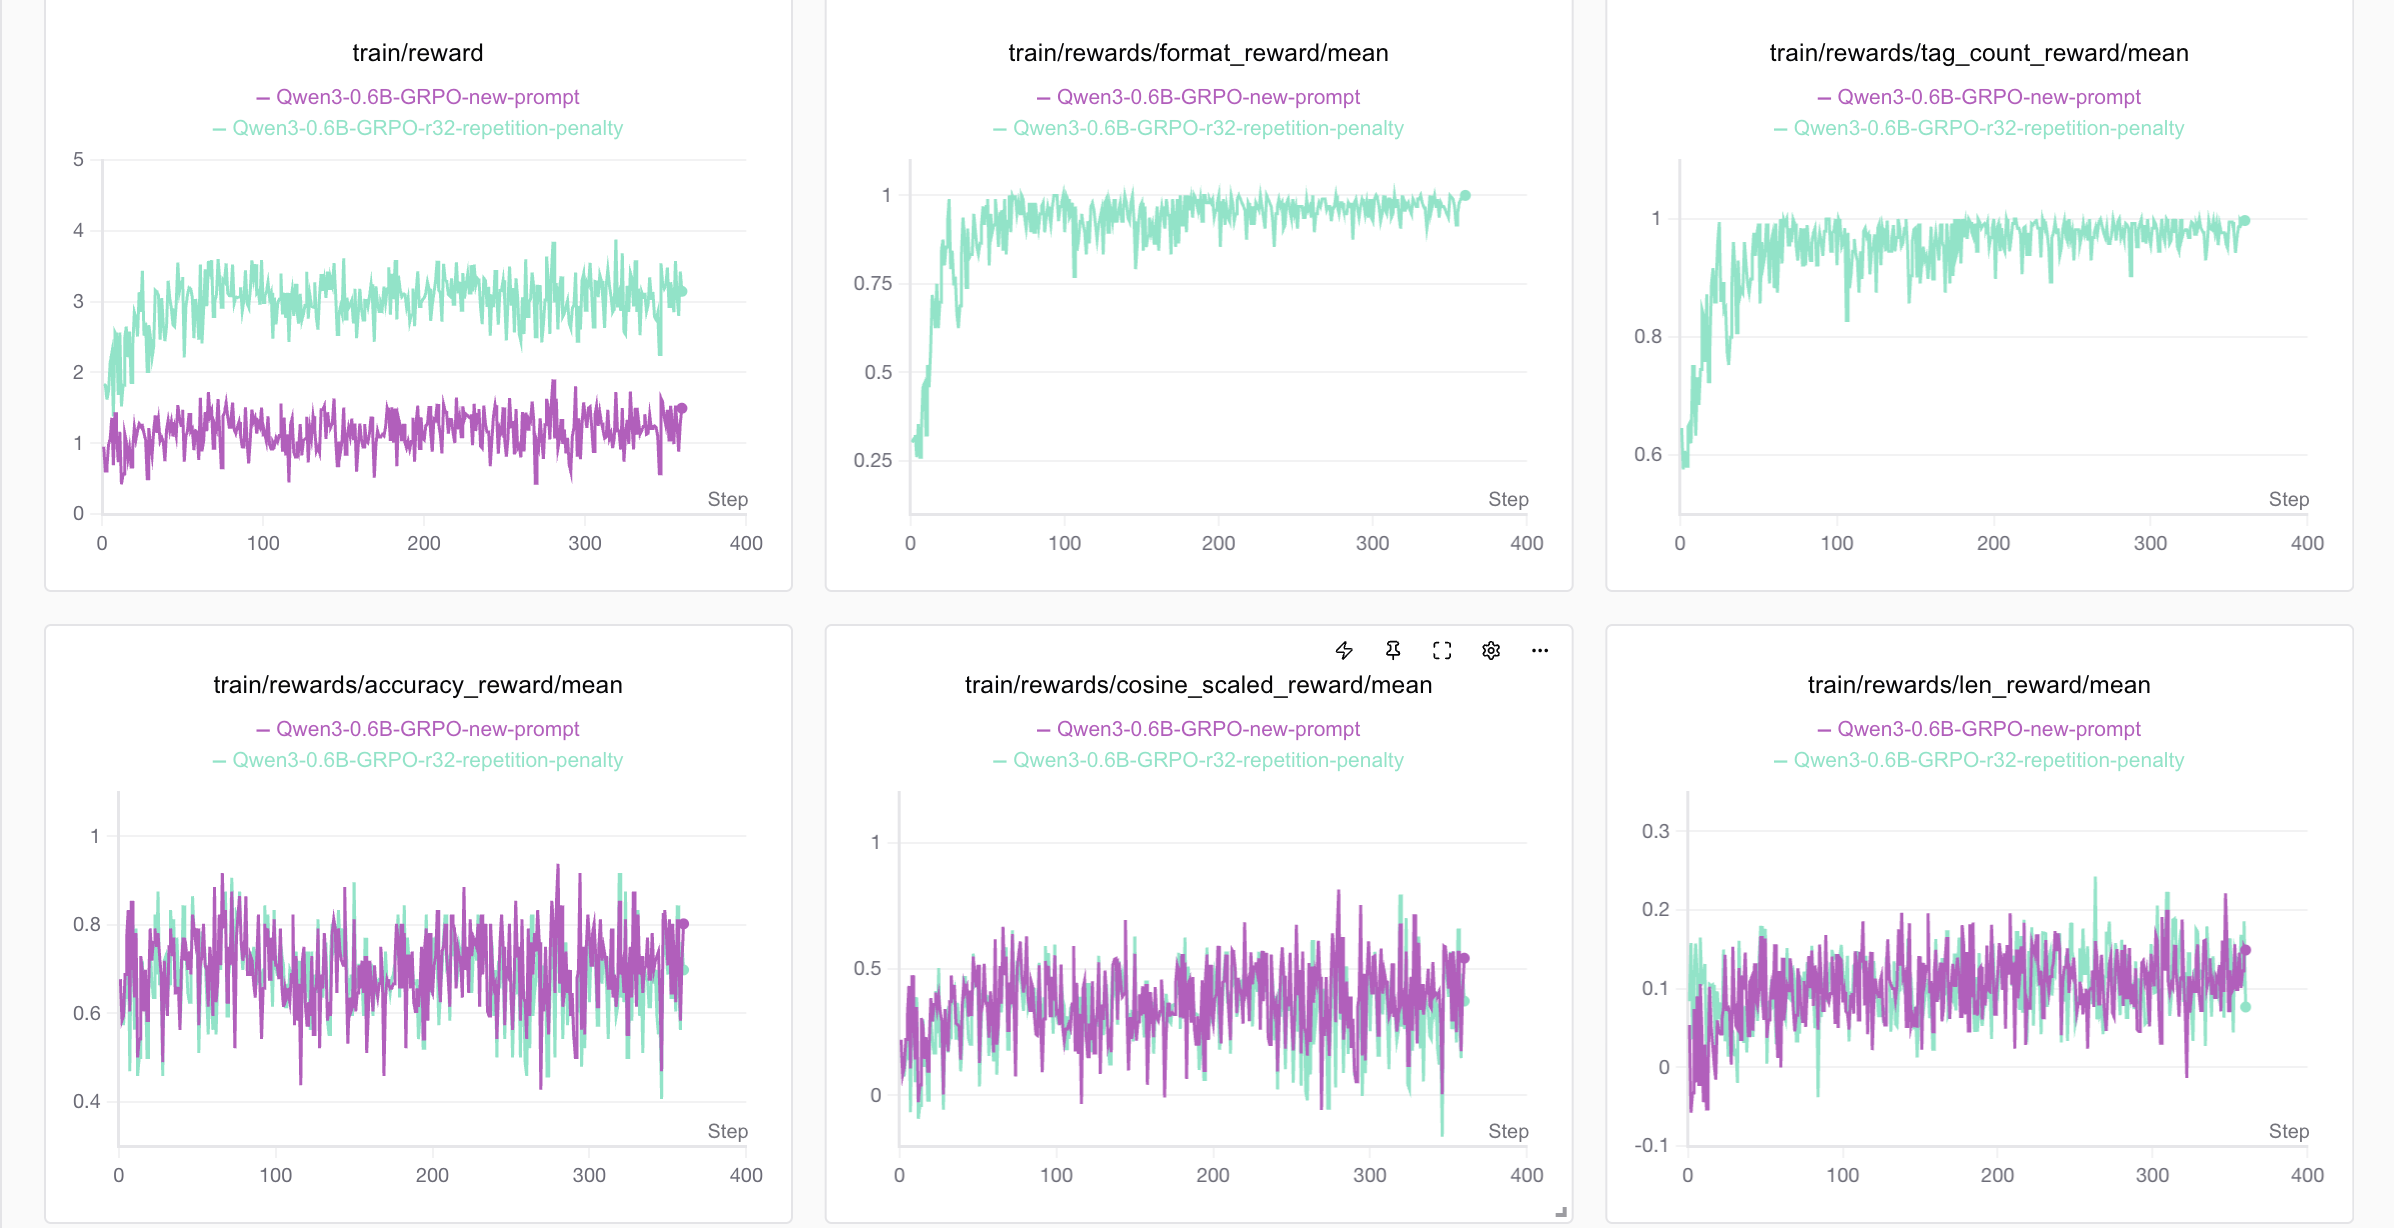
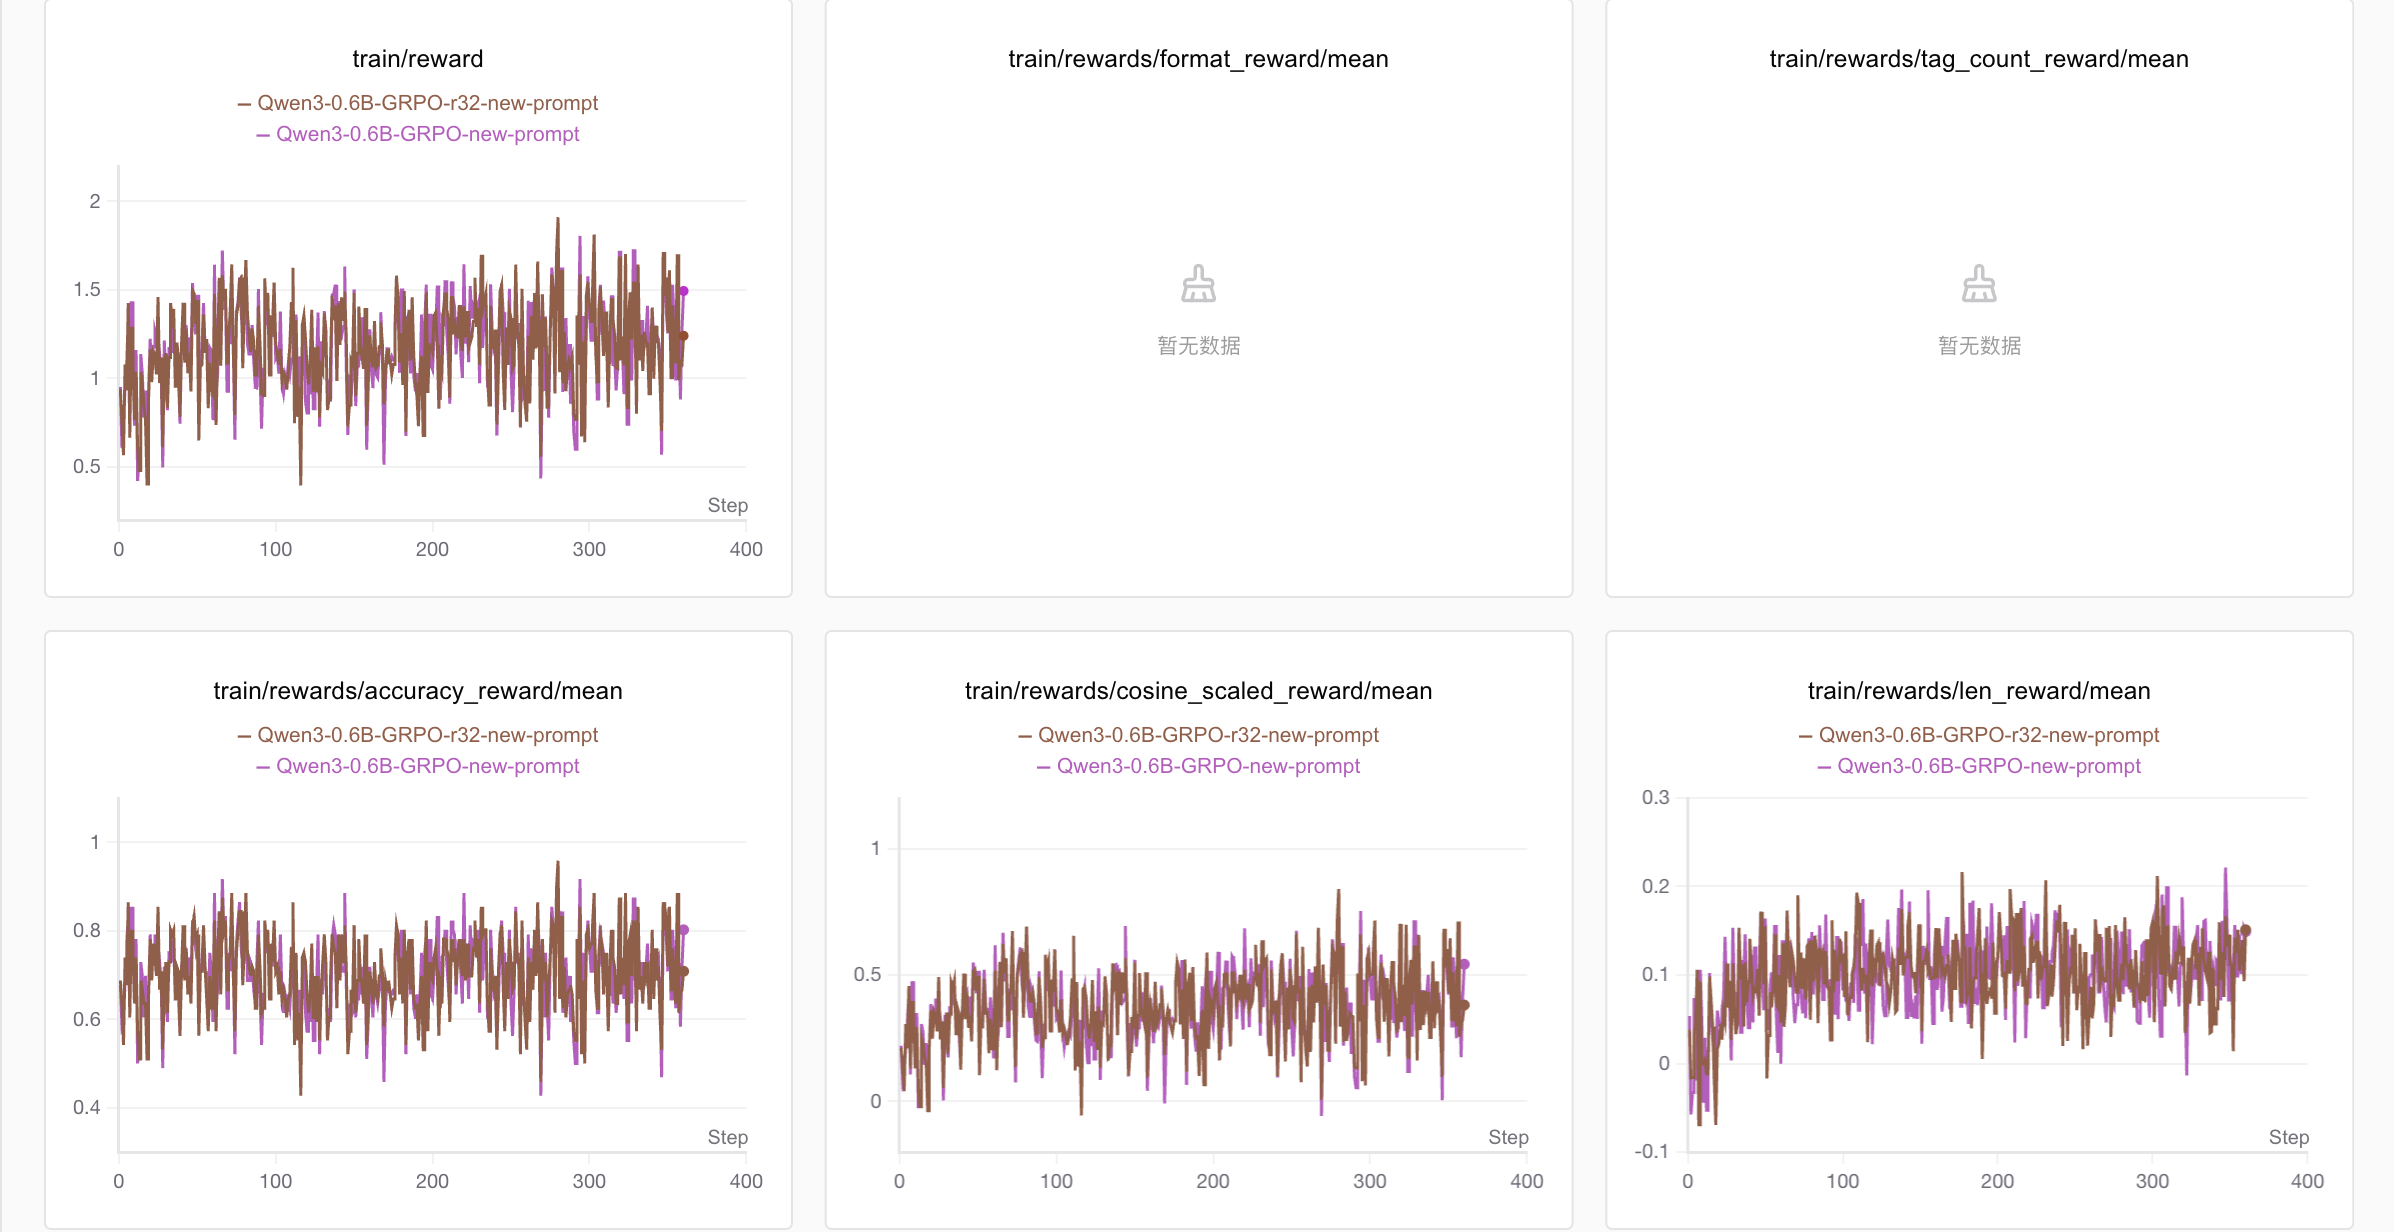
doc: update grpo report

diff --git a/grpo/doc/Report.md b/grpo/doc/Report.md
@@ -10,10 +10,10 @@
 - **Validation Set Accuracy:** 
     - `val_2k.json`
         - "You are a helpful Math assistant. Carefully think step by step and enclose your response within <think> </think> and <answer> </answer> tags, respectively, i.e., <think> reasoning process here </think><answer> answer here </answer>": `73.39%`
-    - `val_200.json`
-        - "You are a helpful Math assistant. Carefully think step by step and enclose your response within <think> </think> and <answer> </answer> tags, respectively, i.e., <think> reasoning process here </think><answer> answer here </answer>": `74.00%`
-        - "这是小学数学1-6年级的校内题目，无需进行分析，请直接输出数字答案，不带单位。": `74.50%`
-        - "You are a helpful Math assistant. 这是小学数学1-6年级的校内题目，请直接输出数字答案，不带单位。": `76.00%`
+    - `val_300.json`
+        - "You are a helpful Math assistant. Carefully think step by step and enclose your response within <think> </think> and <answer> </answer> tags, respectively, i.e., <think> reasoning process here </think><answer> answer here </answer>": `74.33%`
+        - "这是小学数学1-6年级的校内题目，无需进行分析，请直接输出数字答案，不带单位。": `74.67%`
+        - "You are a helpful Math assistant. 这是小学数学1-6年级的校内题目，请直接输出数字答案，不带单位。": `75.00%`
 
 ## Problems
 - The task of solving math problems is extremely sensitive to the randomness of model generation, as the model may take different inference paths, leading to different results and, importantly, high variation in accuracy on validation sets.
@@ -92,7 +92,7 @@
 #### Results
 - Total reward seems a little better than the previous one.
     ![alt text](image-7.png)
-- `val_200.json` accuracy: `76.50%`
+- `val_300.json` accuracy: `75.33%`
 
 ### Raw_r16
 #### Setup
@@ -108,7 +108,7 @@
 #### Results
 - Significant improvement is seen in all reward functions.
     ![alt text](image-8.png)
-- `val_200.json` accuracy: `70.50%`
+- `val_300.json` accuracy: `72.33%`
 
 ### Raw_r8
 #### Setup
@@ -124,7 +124,7 @@
 #### Results
 - Training rewards resemble those of `max_lora_rank=16`.
     ![alt text](image-9.png)
-- `val_200.json` accuracy: `73.50%`
+- `val_300.json` accuracy: `72.33%`
 
 ### Raw_r16_official_sampling
 #### Setup
@@ -145,8 +145,7 @@
 #### Results
 - Training rewards showed no significant difference.
     ![alt text](image-10.png)
-- `val.json` accuracy: `71.19%` *(not reliable)*
-- `val_200.json` accuracy: `70.00%`
+- `val_300.json` accuracy: `69.67%`
 
 ### Raw_r16_cosine_modified
 #### Setup
@@ -162,13 +161,13 @@
     - `cosine_max_len`: `1000`
     - `cosine_min_value_wrong`: `-10.0`
     - `cosine_max_value_wrong`: `0`
-    - `cosine_min_value_correct`: `2.0`
-    - `cosine_max_value_correct`: `1.0`
+    - `cosine_min_value_correct`: `1.0`
+    - `cosine_max_value_correct`: `2.0`
 
 #### Results
 - Performance at response format dropped a little bit.
     ![alt text](image-11.png)
-- `val_200.json` accuracy: `77.50%`
+- `val_300.json` accuracy: `71.00%`
 
 ### Raw_r32_repetition_penalty
 #### Setup
@@ -187,7 +186,7 @@
 #### Results
 - Better training rewards than that without repetition penalty
     ![alt text](image-12.png)
-- `val_200.json` accuracy: `67.00%`
+- `val_300.json` accuracy: `68.33%`
 
 ### Raw_r32_new_prompt
 #### Setup
@@ -197,10 +196,10 @@
 - `batch_size`: `24`
 - `num_generations`: `6`
 - `max_grad_norm`: `0.1`
-- `reward_funcs`: `format_reward`, `tag_count_reward`, `accuracy_reward`, `cosine_scaled_reward`, `length_reward`, `repetition_penalty_reward`
+- `reward_funcs`: `accuracy_reward`, `cosine_scaled_reward`, `length_reward`
 - `system_prompt`: "You are a helpful Math assistant. 这是小学数学1-6年级的校内题目，请直接输出数字答案，不带单位。"
 
 #### Results
 - No big difference in training rewards.
     ![alt text](image-13.png)
-- `val_200.json` accuracy: `71.00%`
+- `val_300.json` accuracy: `69.33%`
